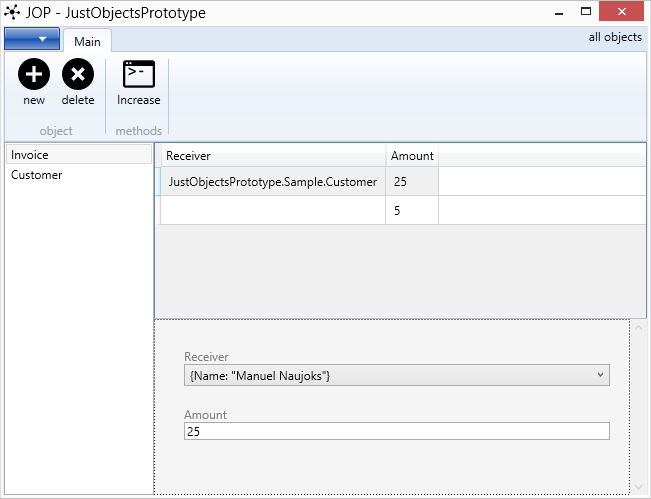
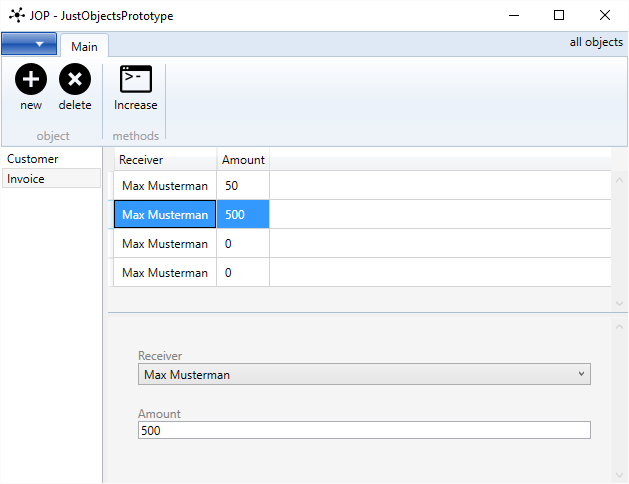
better readme

diff --git a/JustObjectsPrototype/JustObjectsPrototype.Sample/App.cs b/JustObjectsPrototype/JustObjectsPrototype.Sample/App.cs
@@ -49,7 +49,6 @@ namespace JustObjectsPrototype.Sample
 				.AndObjects(objects)
 			);
 			Show.Prototype(With.These(akten).AndSettingsFor<Akte>().DisableDelete().DisableNew());
-			*/
 			Show.Prototype(With.These(objects)
 				.AndViewOf<Akte>()
 					.EnableNew(newed => { newed.Name = "new"; MessageBox.Show("neue Akte: " + newed.Name); })
@@ -60,6 +59,46 @@ namespace JustObjectsPrototype.Sample
 					.DisableDelete()
 					.OnValueChanged(changed => { changed.Geändert = true; })
 			);
+			*/
+
+
+
+			var customers = new List<Customer>
+			{
+				new Customer { Name = "Max Musterman" }
+			};
+
+			Show.Prototype(With.These(customers));
+		}
+	}
+
+
+
+	public class Invoice
+	{
+		public Customer Receiver { get; set; }
+		public decimal Amount { get; set; }
+
+		public void Increase()
+		{
+			Amount += 1;
+		}
+	}
+	public class Customer
+	{
+		public string Name { get; set; }
+		public override string ToString()
+		{
+			return Name;
+		}
+
+		public Invoice Bill(decimal amount)
+		{
+			return new Invoice
+			{
+				Receiver = this,
+				Amount = amount,
+			};
 		}
 	}
 

diff --git a/README.md b/README.md
@@ -7,7 +7,7 @@ Create only your domain objects and get a prototype shell for free.
 
 How To Use
 ----------
-Just create a new .NET 4.5 Console Application and add POCO classes for your prototype domain types, like in the example below.
+Just create a new .NET 4.5 Console Application and add POCO classes that implement your domain, like in the example below.
 ```csharp
 public class Invoice
 {
@@ -22,17 +22,35 @@ public class Invoice
 public class Customer
 {
    public string Name { get; set; }
+   public override string ToString()
+   {
+      return Name;
+   }
+
+   public Invoice Bill(decimal amount) 
+   {
+      return new Invoice 
+      {
+         Receiver = this,
+         Amount = amount,
+      };
+   }
 }
 ```
-Now that you modelled your prototype domain, "Install-Package JOP" and show the prototype UI.
+Now that you modelled your prototype domain, "Install-Package JOP" and show the prototype UI using a fluent and natural language like API.
 ```csharp
 [STAThreadAttribute()]
 public static void Main()
 {
-   JustObjectsPrototype.Show.With(new List<object> {}, new List<Type> { typeof(Invoice), typeof(Customer) });
+   var customers = new List<Customer> 
+   {
+      new Customer { Name = "Max Musterman" }
+   };
+
+   Show.Prototype(With.These(customers));
 }
 ```
-This gets you a UI like in the screenshot below, with no predefined objects and your two types. You can then create and delete instances of your types and invoke their methods.
+This gets you a UI like in the screenshot below, where you can then create and delete instances of your types and invoke their methods, to bill customers for example.
 ![Screenshot](https://raw.github.com/halllo/JOP/master/screenshot.png)
 
 Happy prototyping!
